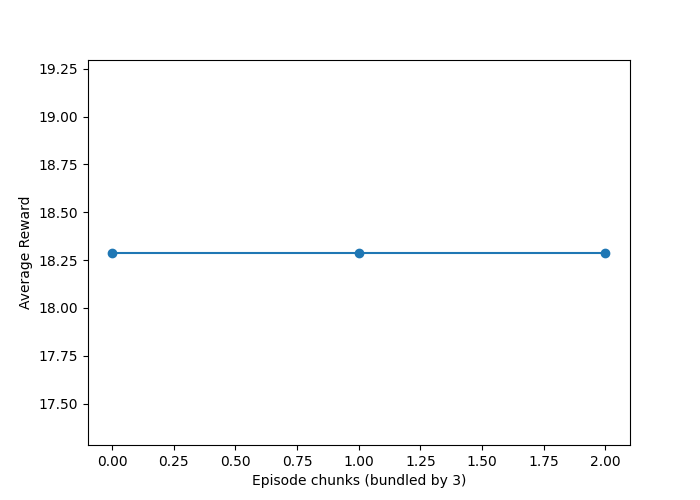
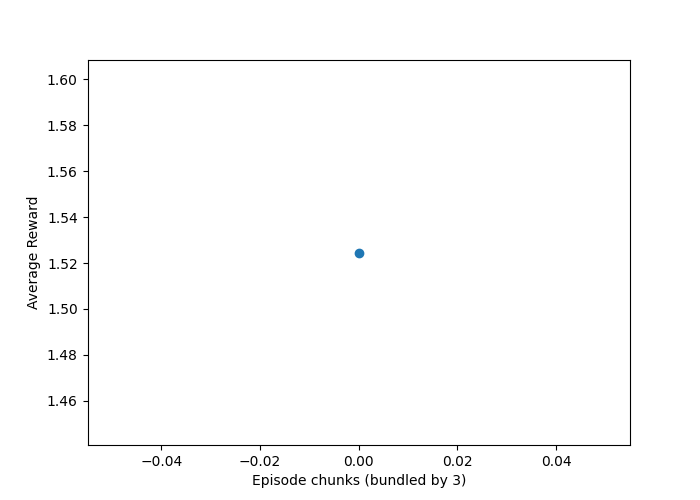
annotated version for edgardo showing

diff --git a/deeprl/envs/curve.py b/deeprl/envs/curve.py
@@ -103,7 +103,7 @@ class CurveEnv(gym.Env):
 
     def reset(self):
         self.true_traj = [(10, 10), (10, 10)]
-        self.agent_traj = [(10, 10), (10, 10)]
+        self.agent_traj = [(350, 50), (350, 50)]
         #self.step_count = 0
         self.rng = np.random.default_rng(12345)
         return self._normalize_state((10, 10))

diff --git a/deeprl/agents/ddpg/learn.py b/deeprl/agents/ddpg/learn.py
@@ -183,7 +183,7 @@ if __name__ == "__main__":
     elif args.env == 3:
         env = GolfHiddenHoles()
     elif args.env == 4:
-        env = CurveEnv(0.3)
+        env = CurveEnv(0.25)
 
     if args.seed > 0:
         util.seeding(args.seed, env)
